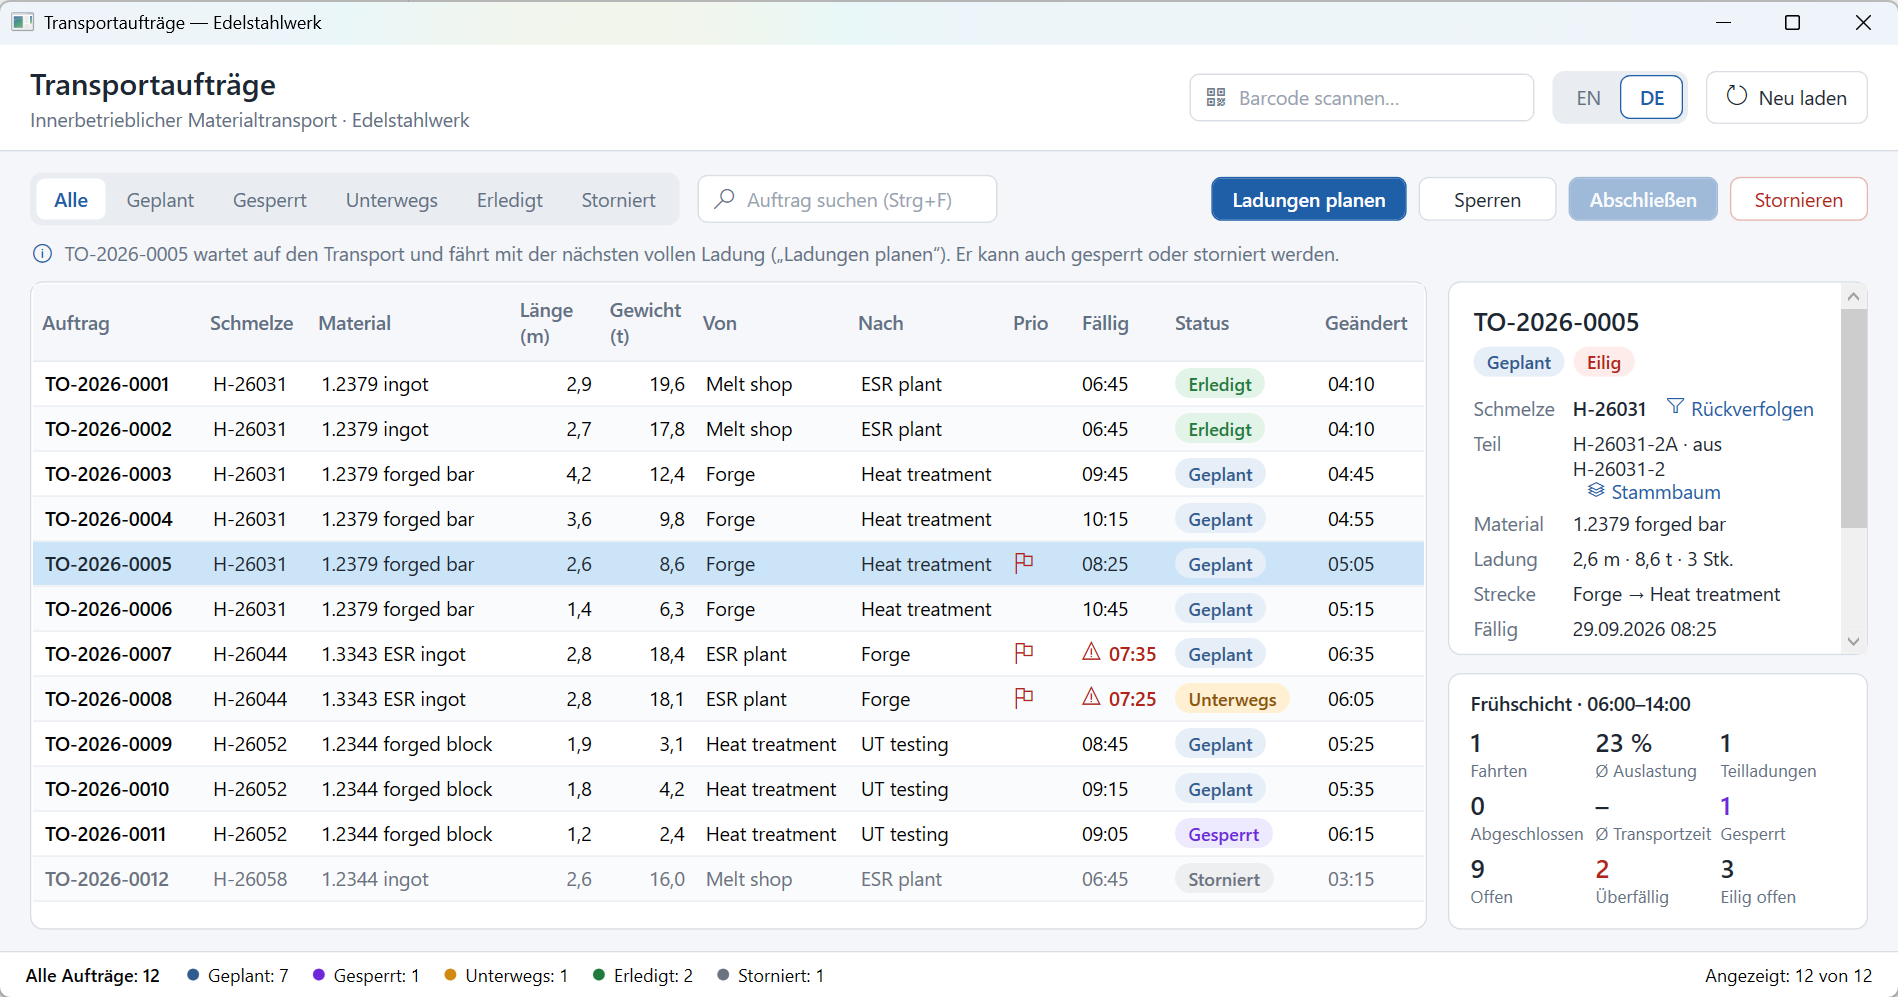
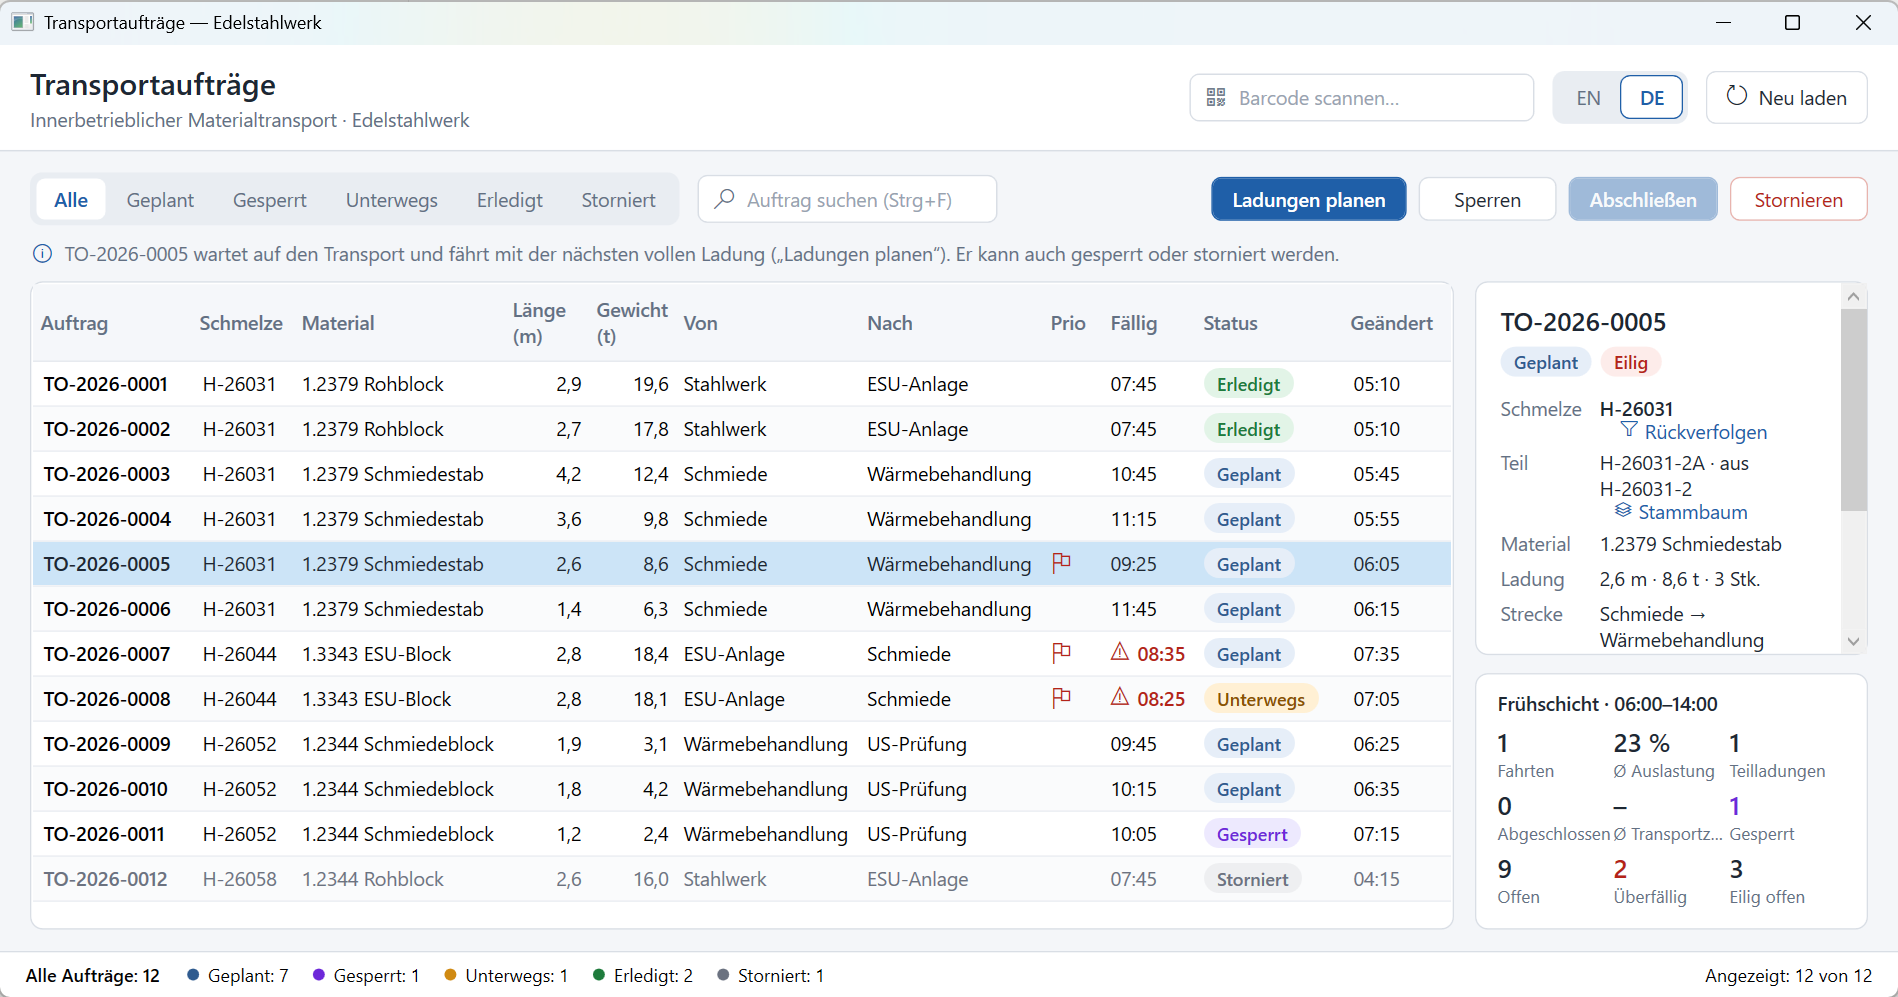
Use German plant data in the demo
- Stations, materials and notes in German (Stahlwerk, Schmiede, Schmiedestab, ...)
- Grid: text columns trim with a tooltip; slightly narrower fixed columns so German names fit
- README screenshots refreshed

diff --git a/src/TransportOrders.App/MainWindow.xaml b/src/TransportOrders.App/MainWindow.xaml
@@ -92,6 +92,11 @@
         <Style x:Key="RightAligned" TargetType="TextBlock">
             <Setter Property="HorizontalAlignment" Value="Right" />
         </Style>
+        <!-- Text that does not fit ends with "…" and shows in full as a tooltip -->
+        <Style x:Key="TrimmedText" TargetType="TextBlock">
+            <Setter Property="TextTrimming" Value="CharacterEllipsis" />
+            <Setter Property="ToolTip" Value="{Binding Text, RelativeSource={RelativeSource Self}}" />
+        </Style>
         <Style x:Key="Counter" TargetType="StackPanel">
             <Setter Property="Orientation" Value="Horizontal" />
             <Setter Property="Margin" Value="0,0,16,0" />
@@ -260,7 +265,7 @@
             <Grid.ColumnDefinitions>
                 <ColumnDefinition Width="*" />
                 <ColumnDefinition Width="14" />
-                <ColumnDefinition Width="280" />
+                <ColumnDefinition Width="262" />
             </Grid.ColumnDefinitions>
             <Grid.RowDefinitions>
                 <RowDefinition Height="Auto" />
@@ -393,7 +398,7 @@
                                 <Setter Property="Background" Value="#F5F7FA" />
                                 <Setter Property="Foreground" Value="{StaticResource MutedTextBrush}" />
                                 <Setter Property="FontWeight" Value="SemiBold" />
-                                <Setter Property="Padding" Value="6,8" />
+                                <Setter Property="Padding" Value="5,8" />
                                 <Setter Property="BorderBrush" Value="{StaticResource BorderBrush}" />
                                 <Setter Property="BorderThickness" Value="0,0,0,1" />
                                 <!-- Long headers such as "Length (m)" wrap instead of widening narrow numeric columns -->
@@ -425,7 +430,7 @@
                                 <Setter Property="Template">
                                     <Setter.Value>
                                         <ControlTemplate TargetType="DataGridCell">
-                                            <Border Background="{TemplateBinding Background}" Padding="6,0">
+                                            <Border Background="{TemplateBinding Background}" Padding="5,0">
                                                 <ContentPresenter VerticalAlignment="Center" />
                                             </Border>
                                         </ControlTemplate>
@@ -440,20 +445,23 @@
                             </Style>
                         </DataGrid.CellStyle>
                         <DataGrid.Columns>
-                            <DataGridTextColumn Header="{svc:Tr Col_OrderNo}" Binding="{Binding OrderNumber}" Width="112" FontWeight="SemiBold" />
-                            <DataGridTextColumn Header="{svc:Tr Col_Heat}" Binding="{Binding HeatNumber}" Width="72" />
-                            <DataGridTextColumn Header="{svc:Tr Col_Material}" Binding="{Binding Material}" Width="1.3*" MinWidth="80" />
+                            <DataGridTextColumn Header="{svc:Tr Col_OrderNo}" Binding="{Binding OrderNumber}" Width="106" FontWeight="SemiBold" />
+                            <DataGridTextColumn Header="{svc:Tr Col_Heat}" Binding="{Binding HeatNumber}" Width="68" />
+                            <DataGridTextColumn Header="{svc:Tr Col_Material}" Binding="{Binding Material}" Width="1.15*" MinWidth="80"
+                                                ElementStyle="{StaticResource TrimmedText}" />
                             <DataGridTextColumn Header="{svc:Tr Col_Length}" Binding="{Binding LengthText}" SortMemberPath="LoadingLength"
-                                                Width="60" ElementStyle="{StaticResource RightAligned}" />
+                                                Width="56" ElementStyle="{StaticResource RightAligned}" />
                             <DataGridTextColumn Header="{svc:Tr Col_Weight}" Binding="{Binding WeightText}" SortMemberPath="Weight"
-                                                Width="62" ElementStyle="{StaticResource RightAligned}" />
-                            <DataGridTextColumn Header="{svc:Tr Col_From}" Binding="{Binding SourceLocation}" Width="*" MinWidth="80" />
-                            <DataGridTextColumn Header="{svc:Tr Col_To}" Binding="{Binding TargetLocation}" Width="*" MinWidth="80" />
-                            <DataGridTemplateColumn Header="{svc:Tr Col_Priority}" SortMemberPath="Priority" Width="46"
+                                                Width="58" ElementStyle="{StaticResource RightAligned}" />
+                            <DataGridTextColumn Header="{svc:Tr Col_From}" Binding="{Binding SourceLocation}" Width="*" MinWidth="80"
+                                                ElementStyle="{StaticResource TrimmedText}" />
+                            <DataGridTextColumn Header="{svc:Tr Col_To}" Binding="{Binding TargetLocation}" Width="*" MinWidth="80"
+                                                ElementStyle="{StaticResource TrimmedText}" />
+                            <DataGridTemplateColumn Header="{svc:Tr Col_Priority}" SortMemberPath="Priority" Width="40"
                                                     CellTemplate="{StaticResource PriorityFlag}" />
                             <DataGridTemplateColumn Header="{svc:Tr Col_Due}" SortMemberPath="DueAt" Width="Auto" MinWidth="62"
                                                     CellTemplate="{StaticResource DueCell}" />
-                            <DataGridTemplateColumn Header="{svc:Tr Col_Status}" SortMemberPath="Status" Width="100"
+                            <DataGridTemplateColumn Header="{svc:Tr Col_Status}" SortMemberPath="Status" Width="98"
                                                     CellTemplate="{StaticResource StatusBadge}" />
                             <DataGridTextColumn Header="{svc:Tr Col_Updated}" Binding="{Binding UpdatedText}" SortMemberPath="UpdatedAt" Width="Auto" MinWidth="72" />
                         </DataGrid.Columns>
@@ -529,7 +537,7 @@
                                         <RowDefinition Height="Auto" />
                                     </Grid.RowDefinitions>
                                     <TextBlock Grid.Row="0" Style="{StaticResource FieldLabel}" Text="{svc:Tr Details_Heat}" />
-                                    <StackPanel Grid.Row="0" Grid.Column="1" Orientation="Horizontal" Margin="0,0,0,6">
+                                    <WrapPanel Grid.Row="0" Grid.Column="1" Margin="0,0,0,6">
                                         <TextBlock Text="{Binding HeatNumber}" FontWeight="SemiBold" VerticalAlignment="Center" />
                                         <Button Style="{StaticResource LinkButton}" Margin="8,-3,0,-3" Padding="6,1"
                                                 Foreground="{StaticResource AccentBrush}"
@@ -540,7 +548,7 @@
                                                 <TextBlock Text="{svc:Tr Details_ShowHeat}" />
                                             </StackPanel>
                                         </Button>
-                                    </StackPanel>
+                                    </WrapPanel>
                                     <TextBlock Grid.Row="1" Style="{StaticResource FieldLabel}" Text="{svc:Tr Details_Piece}" />
                                     <WrapPanel Grid.Row="1" Grid.Column="1" Margin="0,0,0,6">
                                         <TextBlock Text="{Binding PieceText}" VerticalAlignment="Center" TextWrapping="Wrap" />

diff --git a/src/TransportOrders.Data/DatabaseInitializer.cs b/src/TransportOrders.Data/DatabaseInitializer.cs
@@ -106,24 +106,25 @@ public sealed class DatabaseInitializer(IDbContextFactory<AppDbContext> contextF
             .AddHours(-5);
         DateTime At(int minutes) => start.AddMinutes(minutes);
 
-        const string melt = "Melt shop", esr = "ESR plant", forge = "Forge", heat = "Heat treatment", ut = "UT testing";
+        // Plant data in German, like the department names above: stations, materials and notes.
+        const string melt = "Stahlwerk", esr = "ESU-Anlage", forge = "Schmiede", heat = "Wärmebehandlung", ut = "US-Prüfung";
         const OrderPriority normal = OrderPriority.Normal, urgent = OrderPriority.Urgent;
 
         (string Heat, string Piece, string? Parent, string Material, int Pieces, decimal Tonnes, decimal Metres,
             string From, string To, OrderPriority Priority, int Created, int DueAfter)[] rows =
         [
-            ("H-26031", "H-26031-1", null, "1.2379 ingot", 1, 19.6m, 2.9m, melt, esr, normal, 0, 240),
-            ("H-26031", "H-26031-2", null, "1.2379 ingot", 1, 17.8m, 2.7m, melt, esr, normal, 0, 240),
-            ("H-26031", "H-26031-1A", "H-26031-1", "1.2379 forged bar", 4, 12.4m, 4.2m, forge, heat, normal, 120, 300),
-            ("H-26031", "H-26031-1B", "H-26031-1", "1.2379 forged bar", 3, 9.8m, 3.6m, forge, heat, normal, 130, 320),
-            ("H-26031", "H-26031-2A", "H-26031-2", "1.2379 forged bar", 3, 8.6m, 2.6m, forge, heat, urgent, 140, 200),
-            ("H-26031", "H-26031-2B", "H-26031-2", "1.2379 forged bar", 2, 6.3m, 1.4m, forge, heat, normal, 150, 330),
-            ("H-26044", "H-26044-1", null, "1.3343 ESR ingot", 1, 18.4m, 2.8m, esr, forge, urgent, 230, 60),
-            ("H-26044", "H-26044-2", null, "1.3343 ESR ingot", 1, 18.1m, 2.8m, esr, forge, urgent, 60, 220),
-            ("H-26052", "H-26052-1A", "H-26052-1", "1.2344 forged block", 2, 3.1m, 1.9m, heat, ut, normal, 160, 200),
-            ("H-26052", "H-26052-1B", "H-26052-1", "1.2344 forged block", 2, 4.2m, 1.8m, heat, ut, normal, 170, 220),
-            ("H-26052", "H-26052-1C", "H-26052-1", "1.2344 forged block", 1, 2.4m, 1.2m, heat, ut, normal, 180, 200),
-            ("H-26058", "H-26058-1", null, "1.2344 ingot", 1, 16.0m, 2.6m, melt, esr, normal, 0, 240),
+            ("H-26031", "H-26031-1", null, "1.2379 Rohblock", 1, 19.6m, 2.9m, melt, esr, normal, 0, 240),
+            ("H-26031", "H-26031-2", null, "1.2379 Rohblock", 1, 17.8m, 2.7m, melt, esr, normal, 0, 240),
+            ("H-26031", "H-26031-1A", "H-26031-1", "1.2379 Schmiedestab", 4, 12.4m, 4.2m, forge, heat, normal, 120, 300),
+            ("H-26031", "H-26031-1B", "H-26031-1", "1.2379 Schmiedestab", 3, 9.8m, 3.6m, forge, heat, normal, 130, 320),
+            ("H-26031", "H-26031-2A", "H-26031-2", "1.2379 Schmiedestab", 3, 8.6m, 2.6m, forge, heat, urgent, 140, 200),
+            ("H-26031", "H-26031-2B", "H-26031-2", "1.2379 Schmiedestab", 2, 6.3m, 1.4m, forge, heat, normal, 150, 330),
+            ("H-26044", "H-26044-1", null, "1.3343 ESU-Block", 1, 18.4m, 2.8m, esr, forge, urgent, 230, 60),
+            ("H-26044", "H-26044-2", null, "1.3343 ESU-Block", 1, 18.1m, 2.8m, esr, forge, urgent, 60, 220),
+            ("H-26052", "H-26052-1A", "H-26052-1", "1.2344 Schmiedeblock", 2, 3.1m, 1.9m, heat, ut, normal, 160, 200),
+            ("H-26052", "H-26052-1B", "H-26052-1", "1.2344 Schmiedeblock", 2, 4.2m, 1.8m, heat, ut, normal, 170, 220),
+            ("H-26052", "H-26052-1C", "H-26052-1", "1.2344 Schmiedeblock", 1, 2.4m, 1.2m, heat, ut, normal, 180, 200),
+            ("H-26058", "H-26058-1", null, "1.2344 Rohblock", 1, 16.0m, 2.6m, melt, esr, normal, 0, 240),
         ];
 
         var orders = rows.Select((r, i) => new TransportOrder(
@@ -141,8 +142,8 @@ public sealed class DatabaseInitializer(IDbContextFactory<AppDbContext> contextF
         // The forge was waiting for this ingot, so it left alone.
         var second = Transport.Dispatch($"TR-{year}-0002", carrier, [Order(8)], DispatchUser, At(200), PartLoadReason.UrgentMaterial);
 
-        Order(12).TransitionTo(OrderStatus.Cancelled, PlanningUser, At(30), "Chemical analysis out of specification");
-        Order(11).TransitionTo(OrderStatus.OnHold, QualityUser, At(210), "Hardness below specification, re-test");
+        Order(12).TransitionTo(OrderStatus.Cancelled, PlanningUser, At(30), "Chemische Analyse außerhalb der Spezifikation");
+        Order(11).TransitionTo(OrderStatus.OnHold, QualityUser, At(210), "Härte unter Spezifikation, Nachprüfung");
 
         return (orders, [first, second]);
     }

diff --git a/tests/TransportOrders.IntegrationTests/ApiTests.cs b/tests/TransportOrders.IntegrationTests/ApiTests.cs
@@ -81,8 +81,8 @@ public sealed class ApiTests(ApiFactory factory) : IClassFixture<ApiFactory>
 
         Assert.NotEmpty(orders!);
         Assert.All(orders!, o => Assert.Equal("H-26031", o.HeatNumber));
-        Assert.Contains(orders!, o => o.Material == "1.2379 ingot");
-        Assert.Contains(orders!, o => o.Material == "1.2379 forged bar");
+        Assert.Contains(orders!, o => o.Material == "1.2379 Rohblock");
+        Assert.Contains(orders!, o => o.Material == "1.2379 Schmiedestab");
     }
 
     [Fact]
